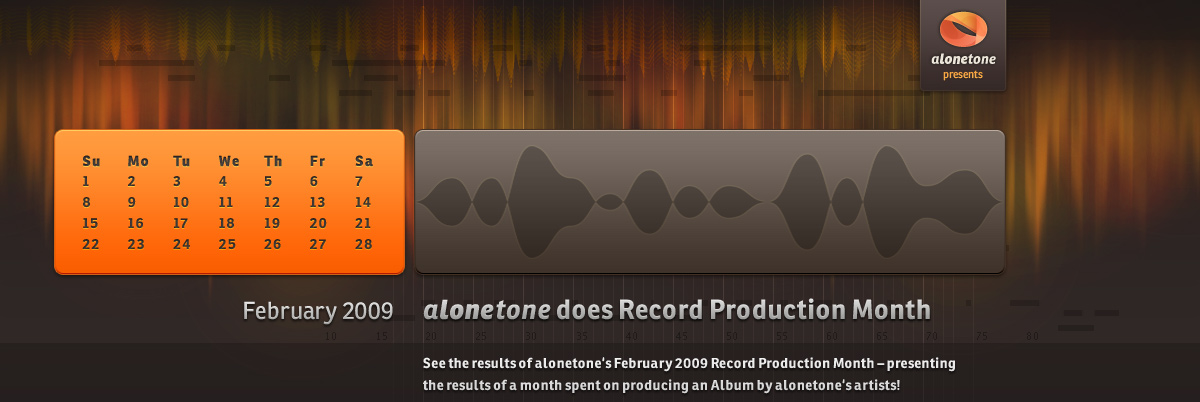
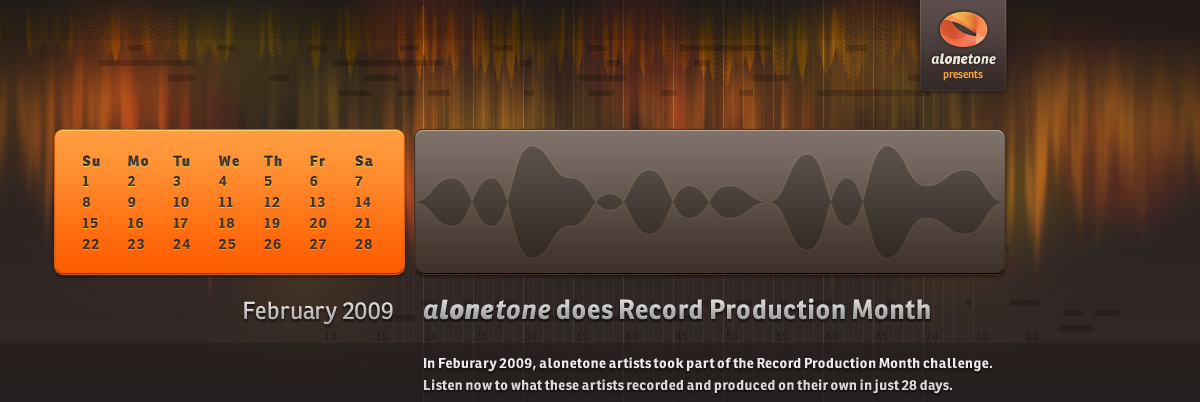
new rpm header text and remove 1 album

Changed region(s): [[0.3392, 0.8955, 0.8325, 0.9851]]

diff --git a/app/controllers/pages_controller.rb b/app/controllers/pages_controller.rb
@@ -11,7 +11,7 @@ class PagesController < ApplicationController
   def rpm_challenge
     ids = [ 906, 904, 899, 893, 892, 891, 887, 886, 882, 880, 
             879, 877, 875, 872, 864, 863, 860, 858, 857, 856, 
-            855, 852, 851, 850, 849, 846, 845, 843, 842, 841, 
+            855, 852, 851, 849, 846, 845, 843, 842, 841, 
             840, 839, 838, 836, 834, 832, 831, 829, 828, 827, 
             826, 825, 824, 823, 822, 821, 818, 817, 816, 814, 
             813, 812, 810, 806, 804, 802, 801, 800, 799, 798, 
